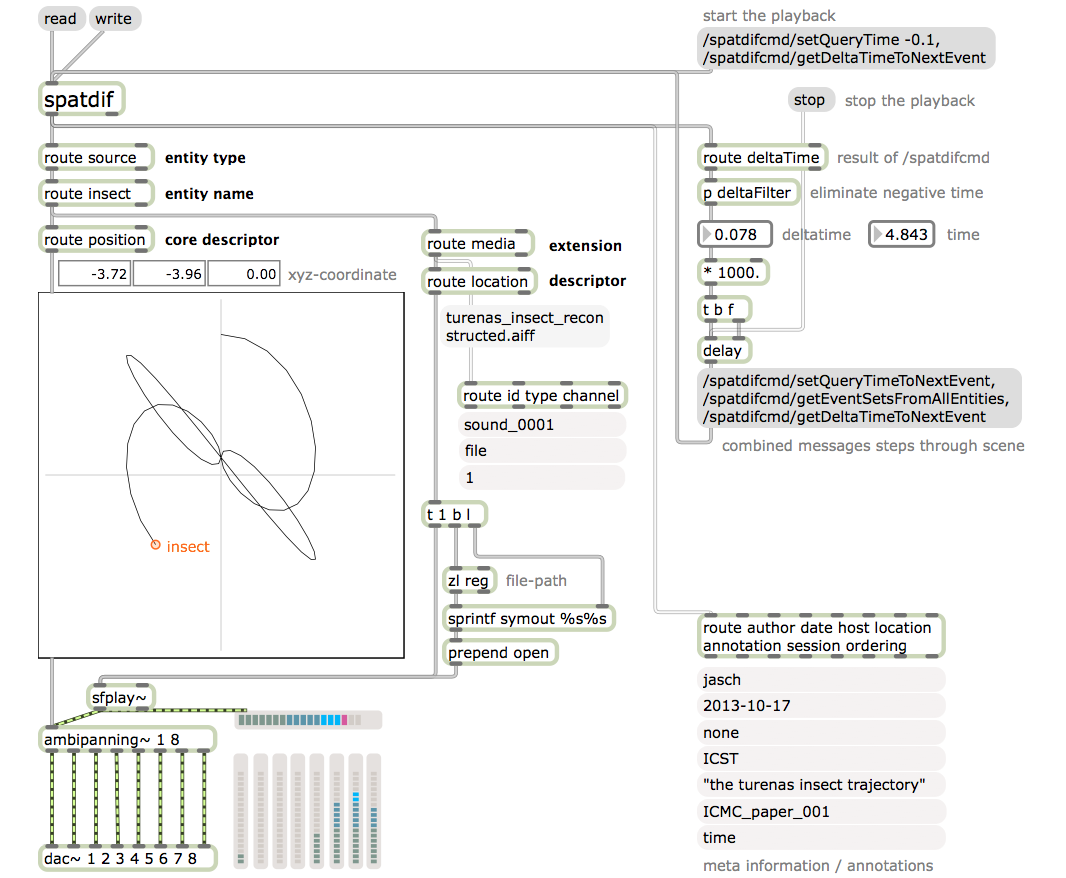
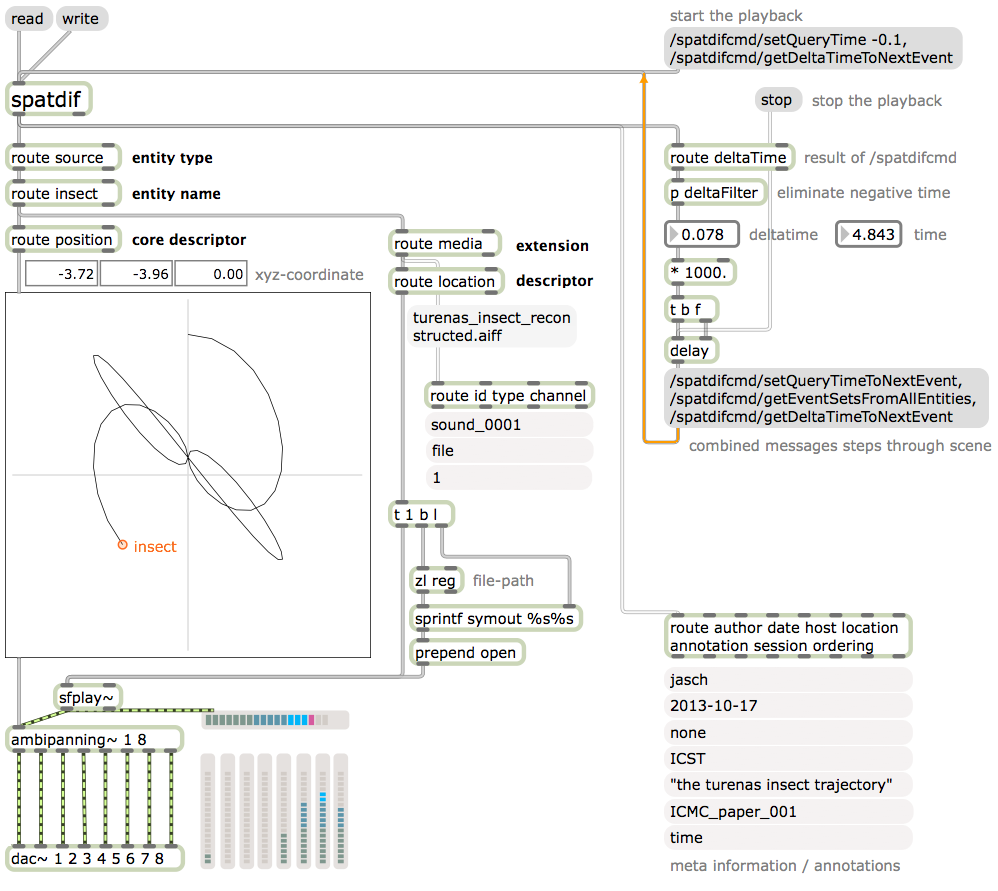
done for today

diff --git a/Papers/ICMC_paper/icmcsmc2014template.tex b/Papers/ICMC_paper/icmcsmc2014template.tex
@@ -178,15 +178,17 @@ For example, the description of media-streams in the Media extension is necessar
 
 \section{libspatdif Concepts}\label{sec:libspatdif_concepts}
 
-In this article we present the development and implementation of a software tool is aimed at an easy integration of SpatDIF into existing software.
-The concepts and guidelines0.95 laid down in the SpatDIF specifications are implemented in a software-library.
+In this article we present the development and implementation of software tools aimed at easy integration of SpatDIF into existing software and workflows.
+The concepts and guidelines laid down in the SpatDIF specifications are implemented in a software-library.
 In addition to the low-level library to demonstrate the usage of SpatDIF, example applications which utilise this library were created and will be discussed below.
-The use of this library is demonstrated in externals for MaxMSP and PureData and in an application written entirely in C++ in the creative coding environment openFrameworks \footnote{\url{http://www.openframeworks.cc}\\all URIs accessed 1. April 2014 }.
+The use of this library is demonstrated in externals for MaxMSP and PureData and in an application written entirely in C++ in the creative coding environment openFrameworks.\footnote{\url{http://www.openframeworks.cc} all URIs valid Apr. 2014}
 
-After establishing a coherent specification with example use cases in textual form only, the next development step is the implementation of software that embodies the specified concepts.
-For this purpose a platform-independent software library was designed and is now implemented.
+After establishing a coherent specification with example use-cases in textual form only, the next development step is the implementation of software, which embodies the specified concepts and should serve as a reference for future work.
+For this purpose a platform-independent software library written in C/C++ was designed and is now implemented.
 By providing a software library rather than just a complete software application, implementations in many different software environments are facilitated, which is one of the goals of the project.
-The library is in charge of holding one or more spatial audio scenes and provide ways to read and write elements to and from this scenes, either directly from native code or via OSC-formatted messages, that may originate from within the application or or come in from an external source via the network. 
+
+The library is in charge of holding one or more spatial audio scenes and provide ways to read and write elements to and from this scenes, either directly from native code or via OSC-formatted messages, that may originate from within the application or or come in from an external source via the network.
+More details of what this means are shown below in the discussion about the concrete tools.
 
 \subsection{Library Class Structure}\label{sec:class_structure}
 
@@ -236,7 +238,7 @@ These functions use two external libraries for parsing of markup formatted strin
 
 % TODO @Trond/Chikashi decide if the code-examples should stay in this paper, since this paper is mainly about the externals an should be different enough from the JSSA paper from last december. Perhaps an extract from the turena's file would be more appropriate here? [jasch]
 \subsection{Simple Code Example}
-The following code listing shows how to load an XML-formatted string obtained from a SpatDIF file into an \emph{sdScene} and query the entity called `insect' for the first occurrence of an event which contains a position and a media descriptor.
+The following code listing shows the native C++ calls used to load an XML-formatted string obtained from a SpatDIF file into an \emph{sdScene} and query the entity called `insect' for the first occurrence of an event which contains a position and a media descriptor.
 
 \lstinputlisting[columns=fullflexible, breaklines=true, numbers=left,xleftmargin=3.0em,frame=none,framexleftmargin=0.0em, basicstyle=\scriptsize\ttfamily]{example_code2.cpp} 
 
@@ -257,11 +259,11 @@ The following processes are executed in the example:
 \noindent Lines 6 -- 8: Post values and time of events.
 
 \section{Introducing the SpatDIF External}
-Even though the SpatDIF syntax is an implementation-independent specification, rather than a concrete software interface, the actual value of using it only becomes evident in concrete applications. And even if SpatDIF was developed with a number of different usage scenarios in mind, the ones most closely associated with these authors' practices are electro-acoustic surround audio compositions for concerts or installations or real-time spatialisation in computer music performance.
-Therefore the primary application for the SpatDIF library lies in an implementation in real-time capable audio software.
+Even though the SpatDIF syntax is an implementation-independent specification, rather than a concrete software interface, the actual value of using it only becomes evident in real applications. And even if SpatDIF was developed with a number of different usage scenarios in mind, the ones most closely associated with the authors' practices are electro-acoustic surround audio compositions for concerts and installations or real-time spatialisation in computer music performance.
+Therefore, the first implementations of the SpatDIF library are made with tools for real-time audio software.
 
 \subsection{Concepts and Practical Usage}\label{subsec:concepts}
-In order to explore the methods and actual handling of the libspatdif in a real situation, a dual testbed was implemented as externals for MaxMSP and Pure Data. 
+In order to explore the methods and actual handling of the `libspatdif' in a real situation, a dual testbed was implemented as externals for MaxMSP and Pure Data. 
 In addition an example application with a limited feature-set was tested in openFrameworks, mainly to establish and test a workflow done entirely in the C++ language.
 
 There are a number of concepts that need to be taken into account when using the library.
@@ -288,8 +290,8 @@ It is the externals in MaxMSP and PureData that implement the required file load
 \subsection{Playback}\label{sec:Playback}
 
 \begin{figure}[httb]
-	\includegraphics[width=0.98\columnwidth]{recording_maxpatch.png}
-	\caption{Max external implementation of spatDIF, playing the Lissajous trajectory from Chowning's `Turenas'.} 
+	\includegraphics[width=\columnwidth]{recording_maxpatch.png}
+	\caption{Implementation of SpatDIF in a MaxMSP external, demonstrating the playback of the Lissajous trajectory from Chowning's `Turenas'.} 
 	\label{fig:screenshot}
 \end{figure}
 
@@ -308,11 +310,12 @@ Subsequently, the messages are routed to obtain the \emph{position} core-descrip
 The sound-file player, visualisation and spatialisation algorithms \cite{schacher7Years} shown here represent the minimal case and should of course be more fully implemented.
 
 As mentioned earlier the library does not have its own scheduling mechanism. 
-In this example this becomes apparent and therefore it demonstrates the method for time-based playback.
-In the right half of the example are shown the \emph{spatdifmds} necessary to run iteratively run through the scene.
-The basic action is to Ask with \emph{getDeltaTimeToNextEvent} for the delta times between subsequent events.
+In this example this becomes apparent and therefore the method for time-based playback is demonstrated.
+In the right half of the example are shown the \emph{spatdifmds} necessary to run iteratively through the scene.
+The basic action is to ask with \emph{getDeltaTimeToNextEvent} for the delta times between subsequent events.
+Since a scene can contain sparse data at no fixed intervals, it is crucial to have a dynamic timing mechanism for playback.
 The command \emph{setQueryTimeToNextEvent} sets the query time variable to the next event, then the library gets queried for all the events at that point in time with \emph{getEventSetsFromAllEntities}, and finally the time to wait until the next event is queried again.
-These commands form a loop that steps through the scene.
+These commands form a loop that steps through the scene, which is made apparent in the figure with the orange connection flowing back to the spatdif-external.
 The timing is executed by a delay which waits the appropriate amount of time to the next event before re-triggering the same sequence.
 
 
@@ -340,7 +343,7 @@ example text
 
 
 \begin{acknowledgments}
-example text
+The development of this software is funded by the Institute for Computer Music and Sound Technology of the Zurich University of the Arts.
 \end{acknowledgments} 
 
 %%%%%%%%%%%%%%%%%%%%%%%%%%%%%%%%%%%%%%%%%%%%%%%%%%%%%%%%%%%%%%%%%%%%%%%%%%%%%
